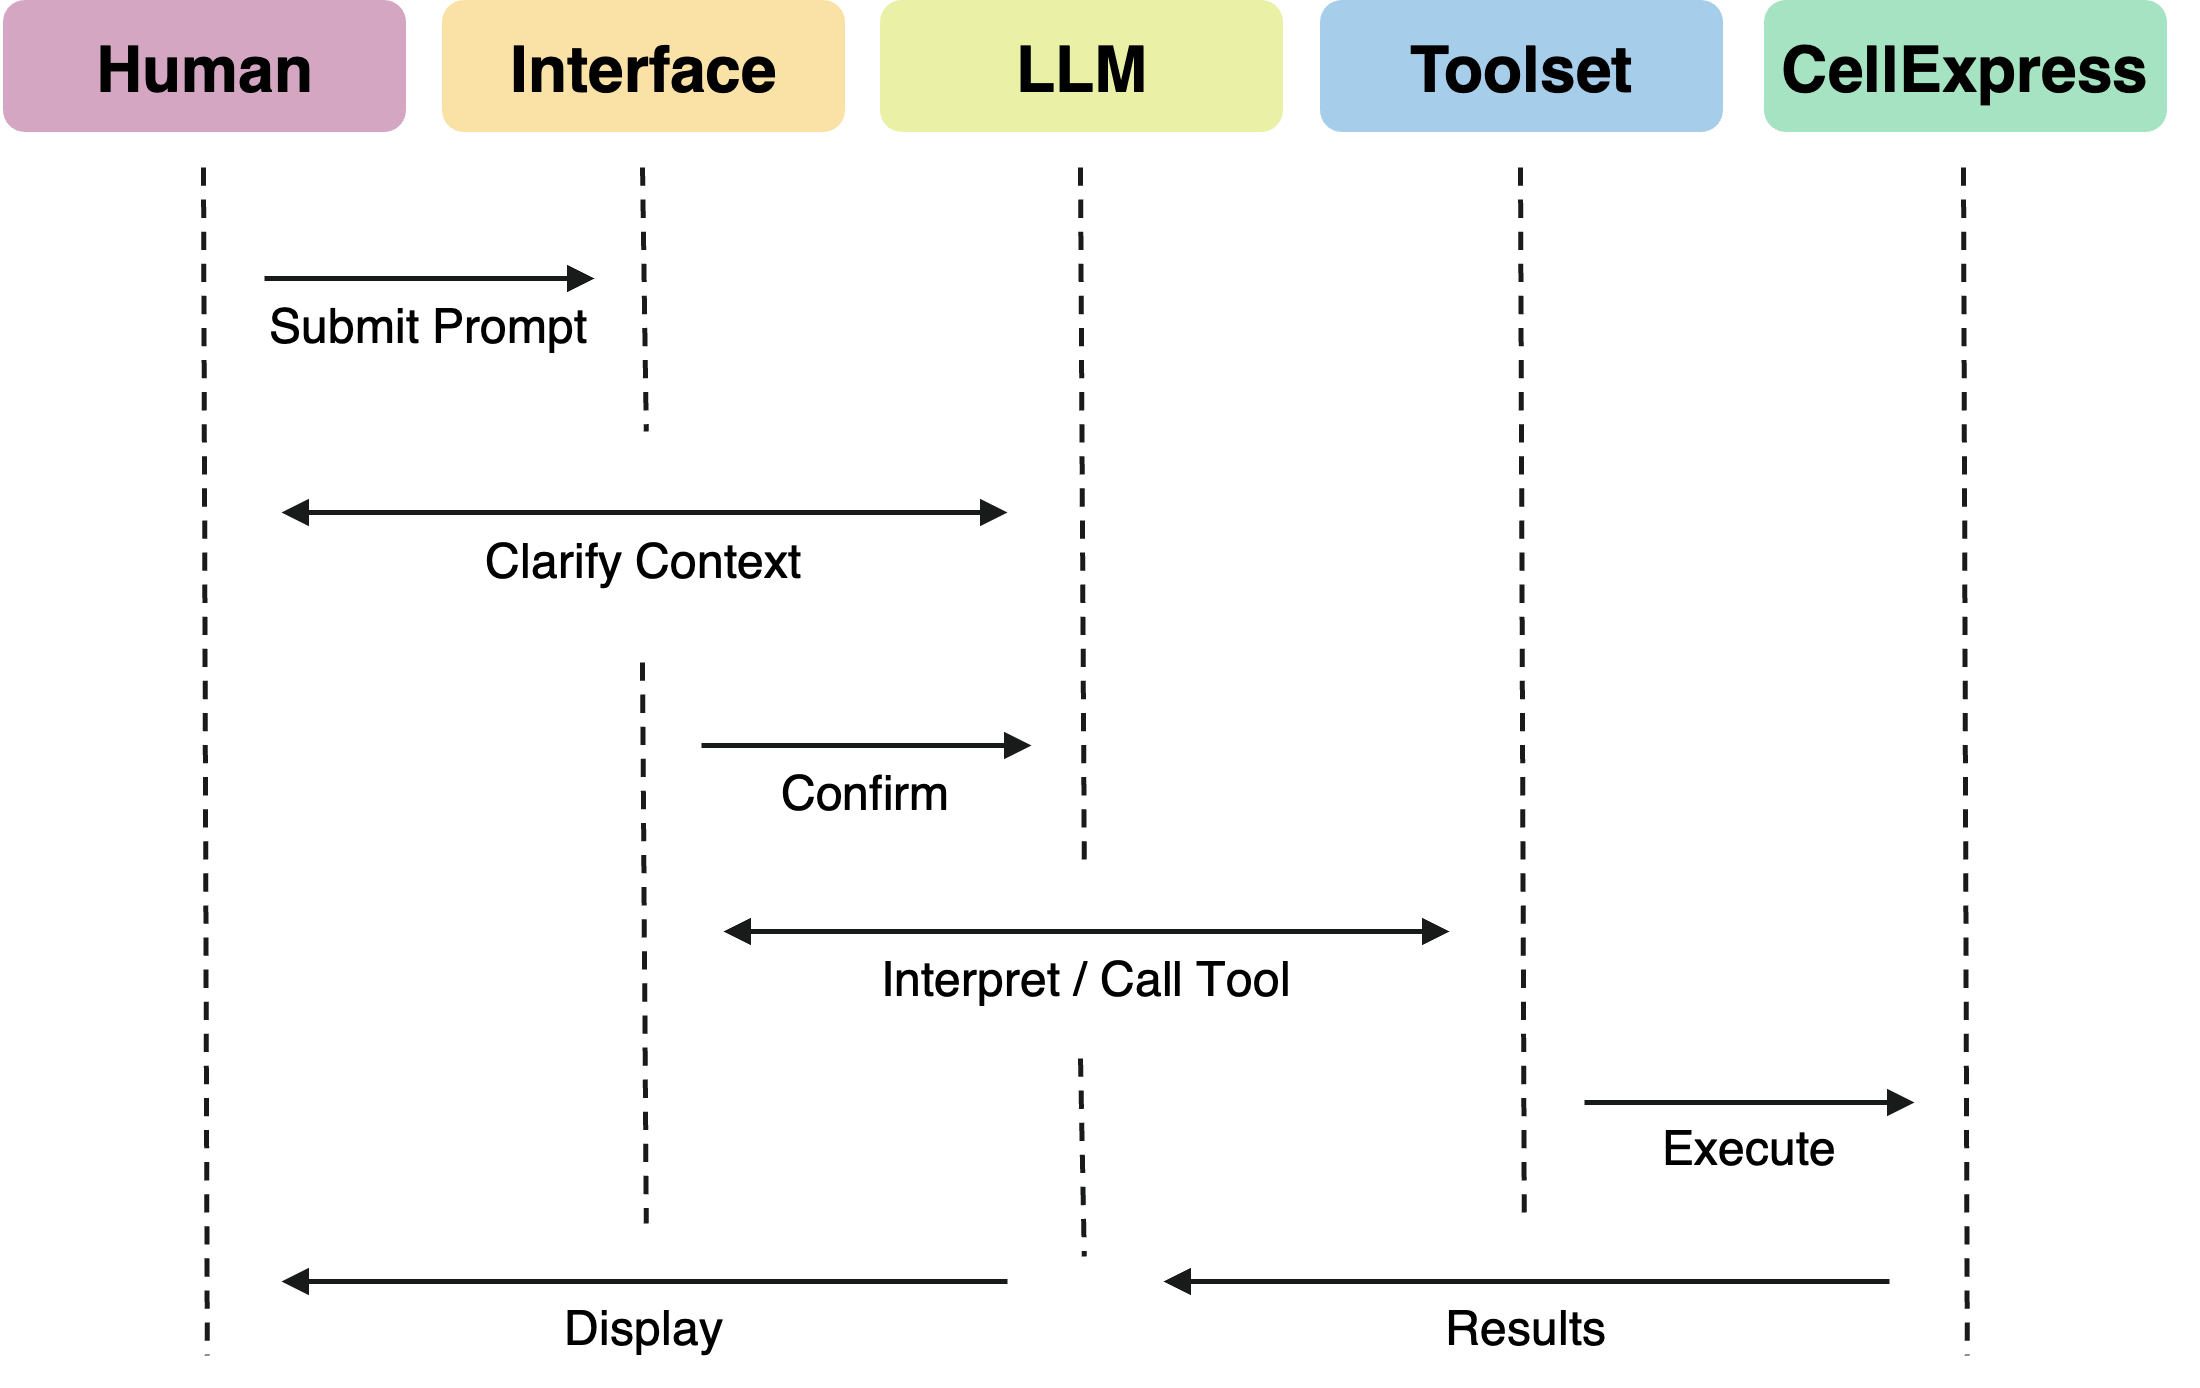
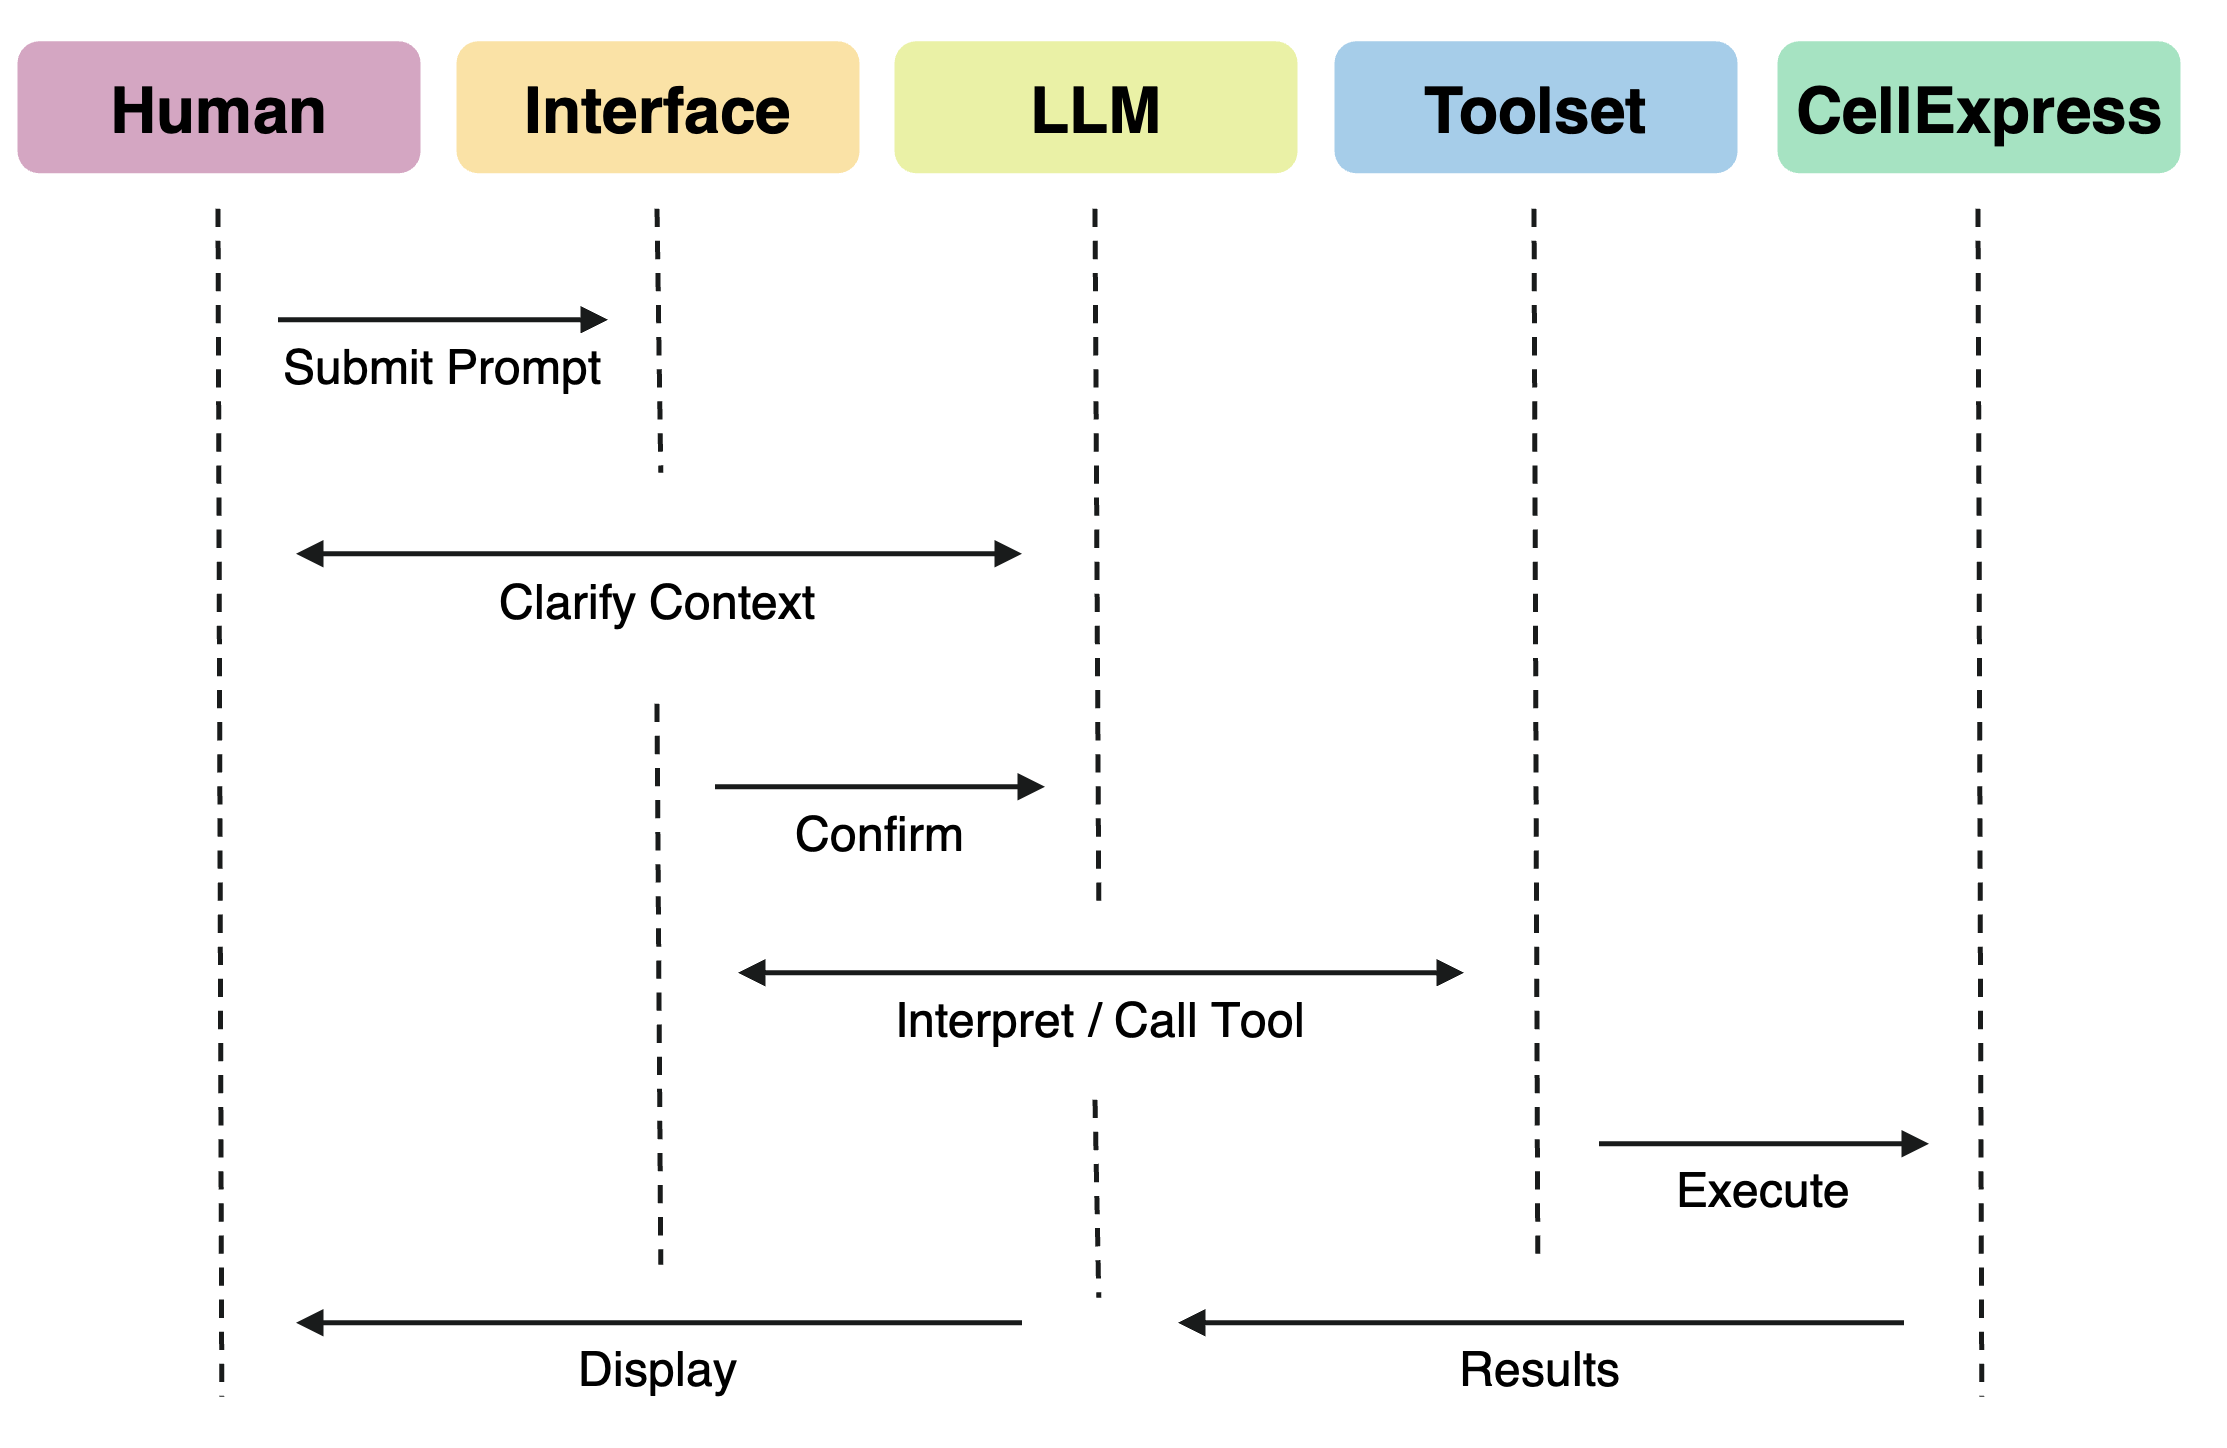
issue_2

diff --git a/README.md b/README.md
@@ -22,7 +22,7 @@
 
 <!-- CellAtria Infographic -->
 <p align="center" width="100%">
-  <img width="100%" src="cellatria_git_logo.png"> 
+  <img width="100%" src="cellatria_git_fig0.png"> 
 </p>
 
 ---
